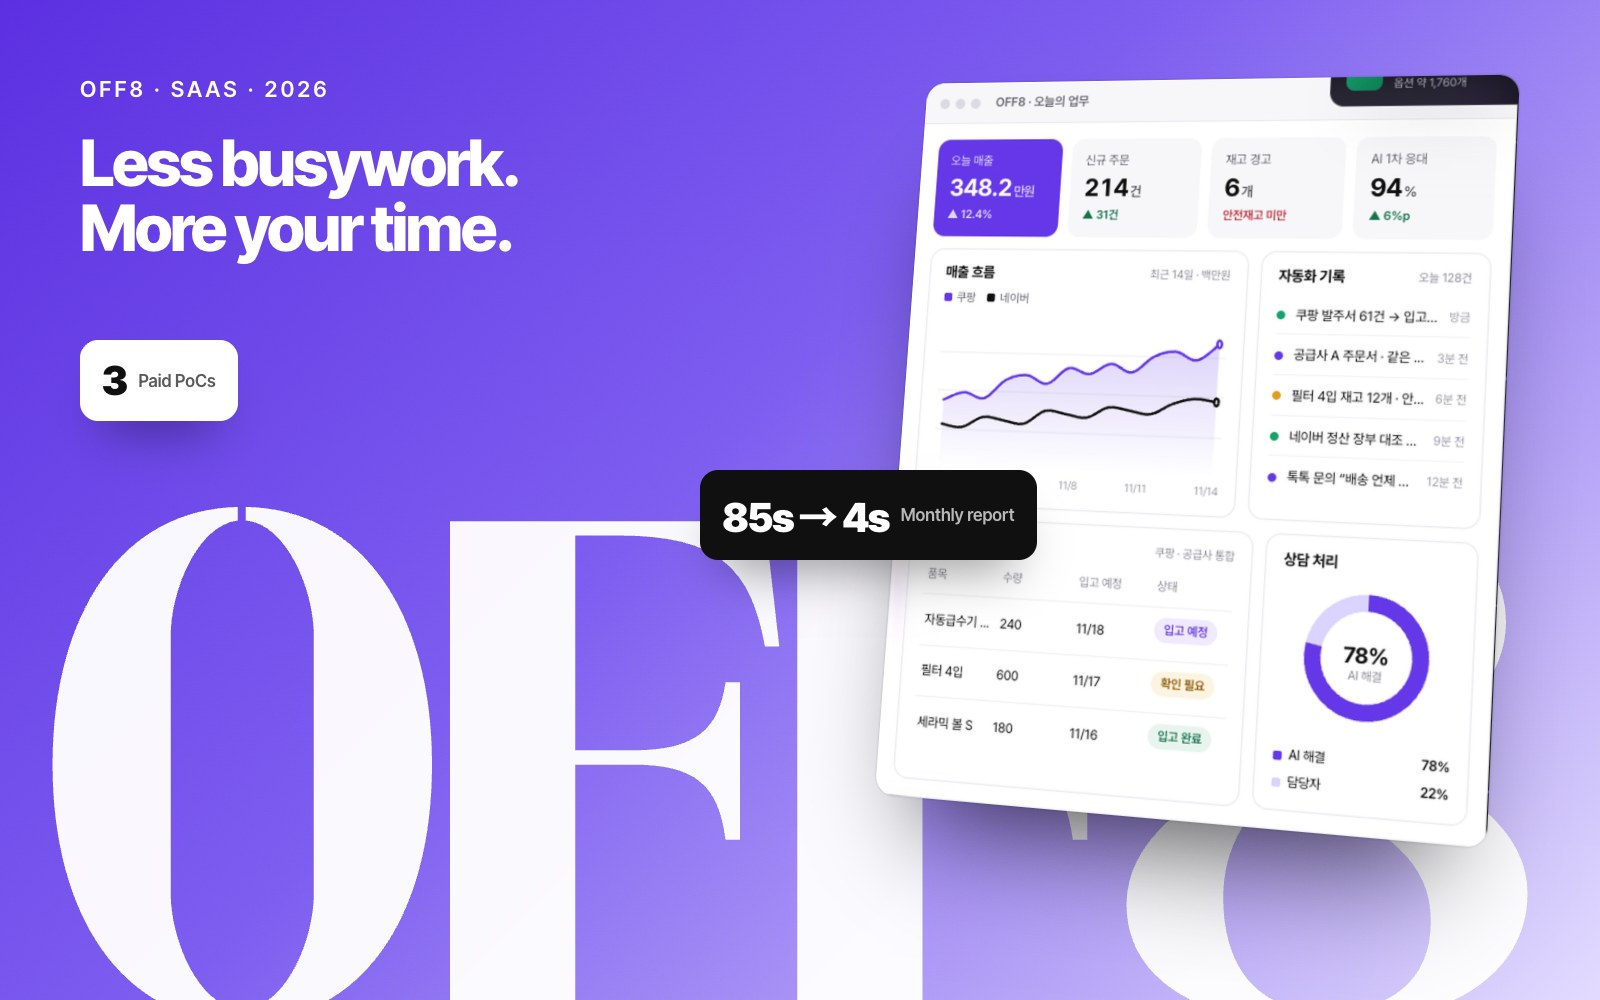
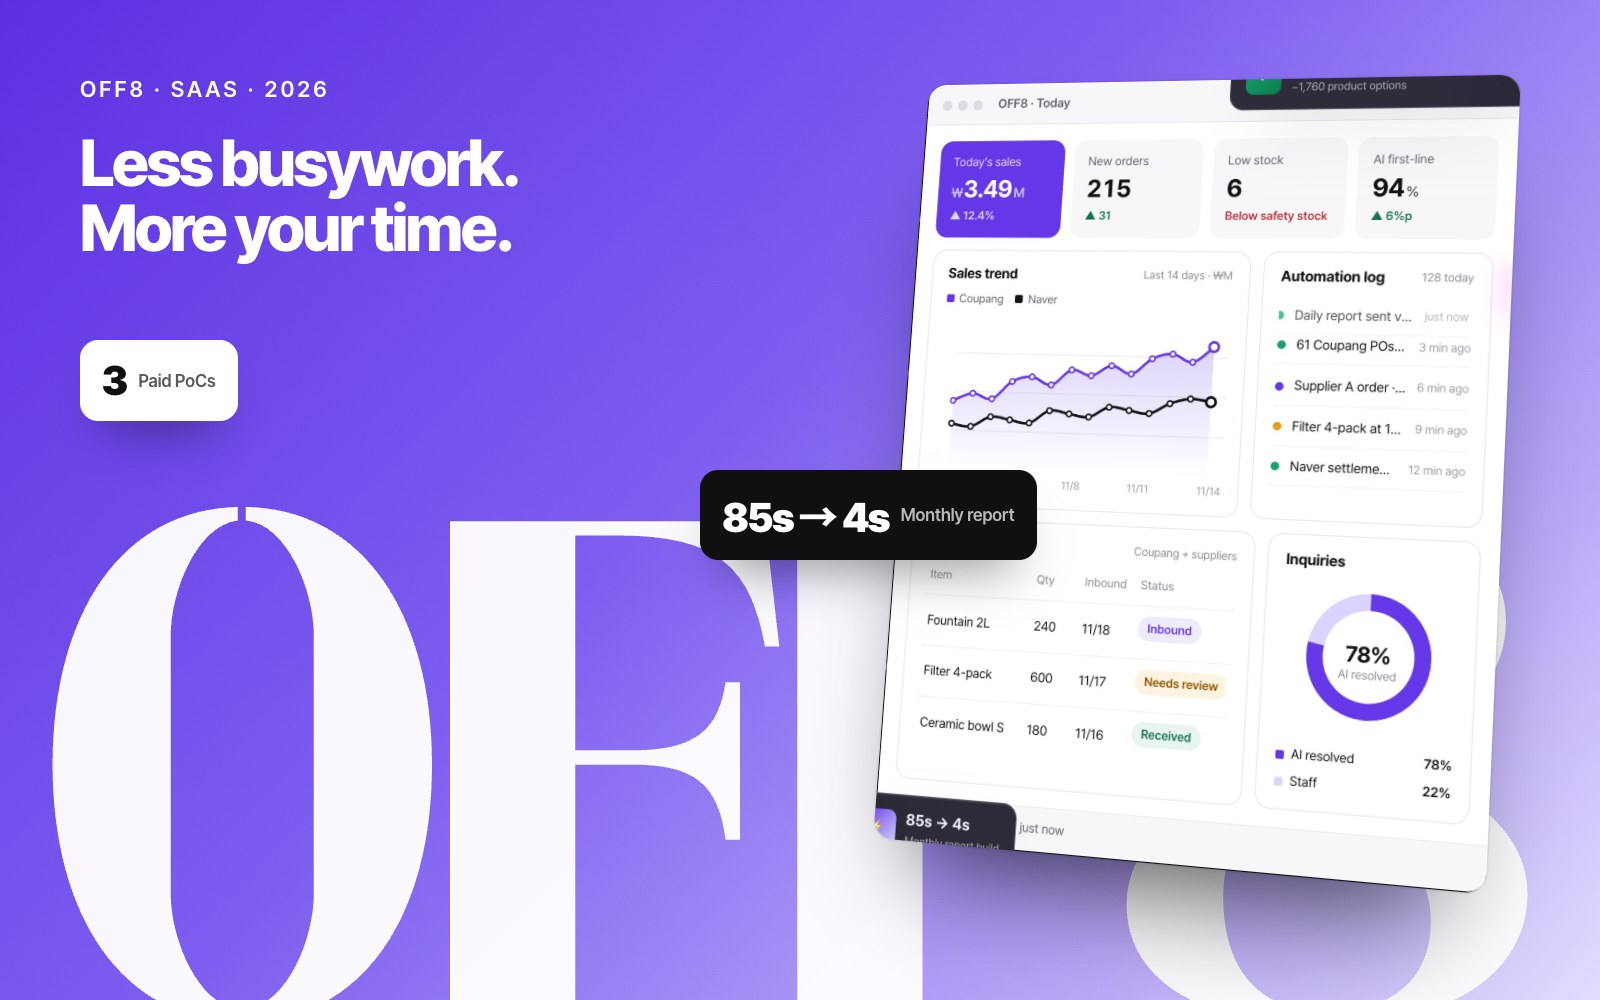
영문 OFF8 표지 속 대시보드도 영어 화면으로

diff --git a/flip.js b/flip.js
@@ -16,8 +16,8 @@ SLIDES.forEach((s) => { s.kind = T(s.kind); s.title = T(s.title); s.desc = T(s.d
 
 // 영어일 때는 표지 안 글자도 영어로 만든 표지(cover-*-en.jpg)를 씁니다
 if (window.i18n?.isEn) {
-  SLIDES.forEach((s) => { s.img = s.img.replace(/\.jpg$/, '-en.jpg'); });
-  document.querySelectorAll('img[src^="shots/cover-"]').forEach((im) => { if (!/-en\.jpg$/.test(im.getAttribute('src'))) im.setAttribute('src', im.getAttribute('src').replace(/\.jpg$/, '-en.jpg')); });
+  SLIDES.forEach((s) => { s.img = s.img.replace(/\.jpg$/, '-en.jpg?v=2'); });
+  document.querySelectorAll('img[src^="shots/cover-"]').forEach((im) => { if (!/-en\.jpg/.test(im.getAttribute('src'))) im.setAttribute('src', im.getAttribute('src').replace(/\.jpg$/, '-en.jpg?v=2')); });
 }
 
 // 작업마다 바탕에 번지는 빛의 색

diff --git a/index.html b/index.html
@@ -260,6 +260,6 @@
   <script src="https://cdnjs.cloudflare.com/ajax/libs/gsap/3.13.0/SplitText.min.js"></script>
   <script src="https://cdn.jsdelivr.net/npm/lenis@1.3.4/dist/lenis.min.js"></script>
   <script src="main.js?v=23"></script>
-  <script type="module" src="flip.js?v=11"></script>
+  <script type="module" src="flip.js?v=12"></script>
 </body>
 </html>
